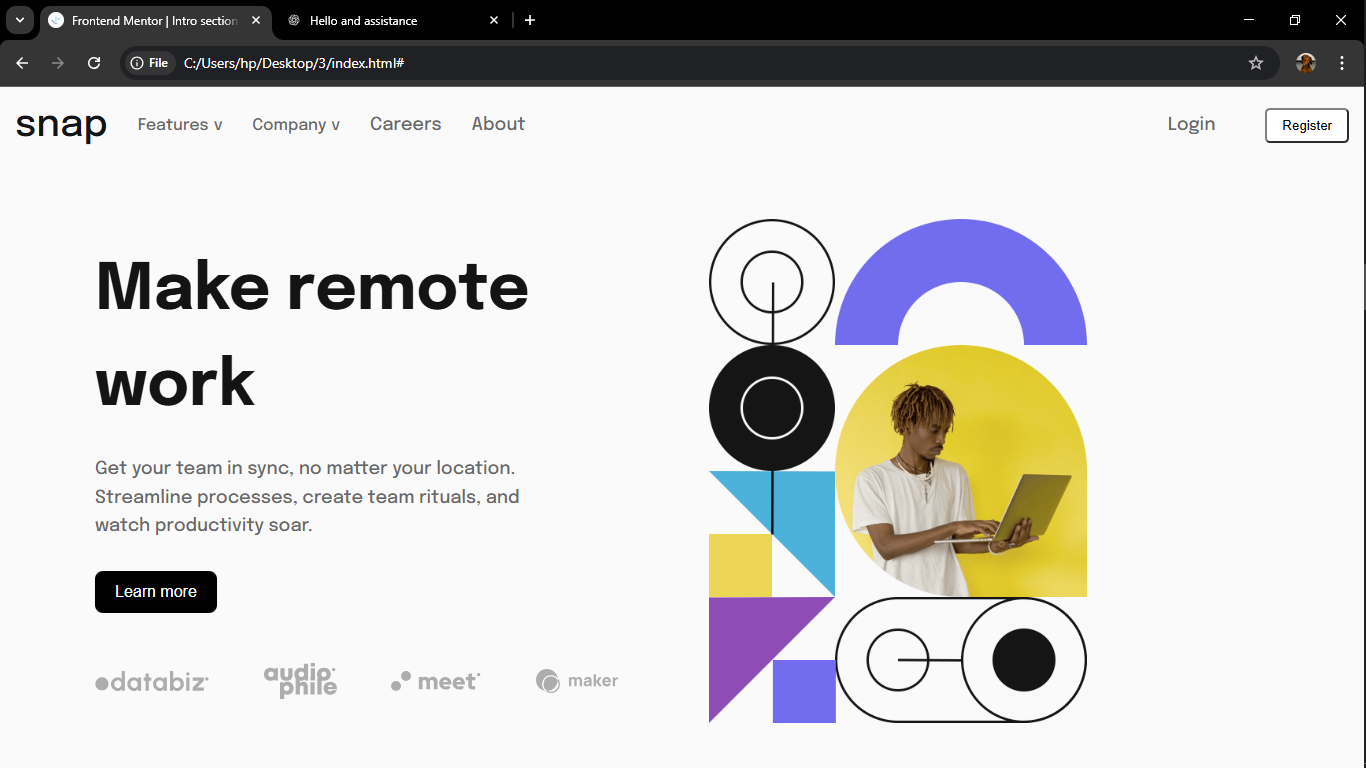
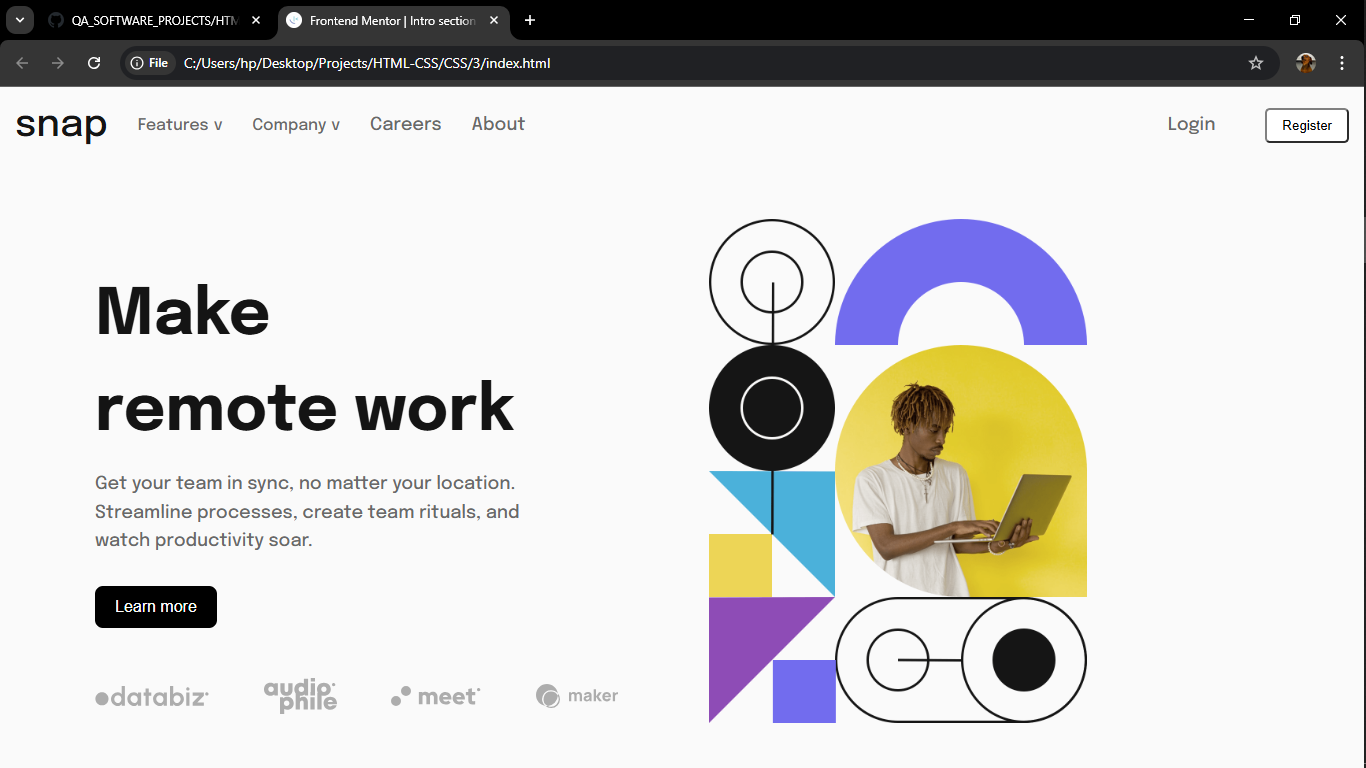
made changes to files in the css folder

diff --git a/HTML-CSS/CSS/3/styles.css b/HTML-CSS/CSS/3/styles.css
@@ -65,21 +65,21 @@ nav {
 .dropdown-menu {
   display: none;
   position: absolute;
-  top: 30px;
+  top: 5px;
   left: 0;
   background: #fff;
   box-shadow: 0px 4px 8px rgba(0, 0, 0, 0.1);
   list-style: none;
   padding: 10px;
-  border-radius: 5px;
+  border-radius: 10px;
   width: 150px;
 }
 
 .dropdown-menu li {
   display: flex;
   align-items: center;
-  gap: 8px;
-  padding: 8px 15px;
+  gap: 5px;
+  padding: 5px 10px;
   color: hsl(0, 0%, 41%);
 }
 
@@ -150,7 +150,9 @@ main{
   font-size: 64px;
   font-weight: bold;
   color: hsl(0, 0%, 8%);
-  margin-bottom: 20px;
+  margin-bottom: 10px;
+  width: 82%;
+  margin-top: 40px;
 }
 
 .par2 {
